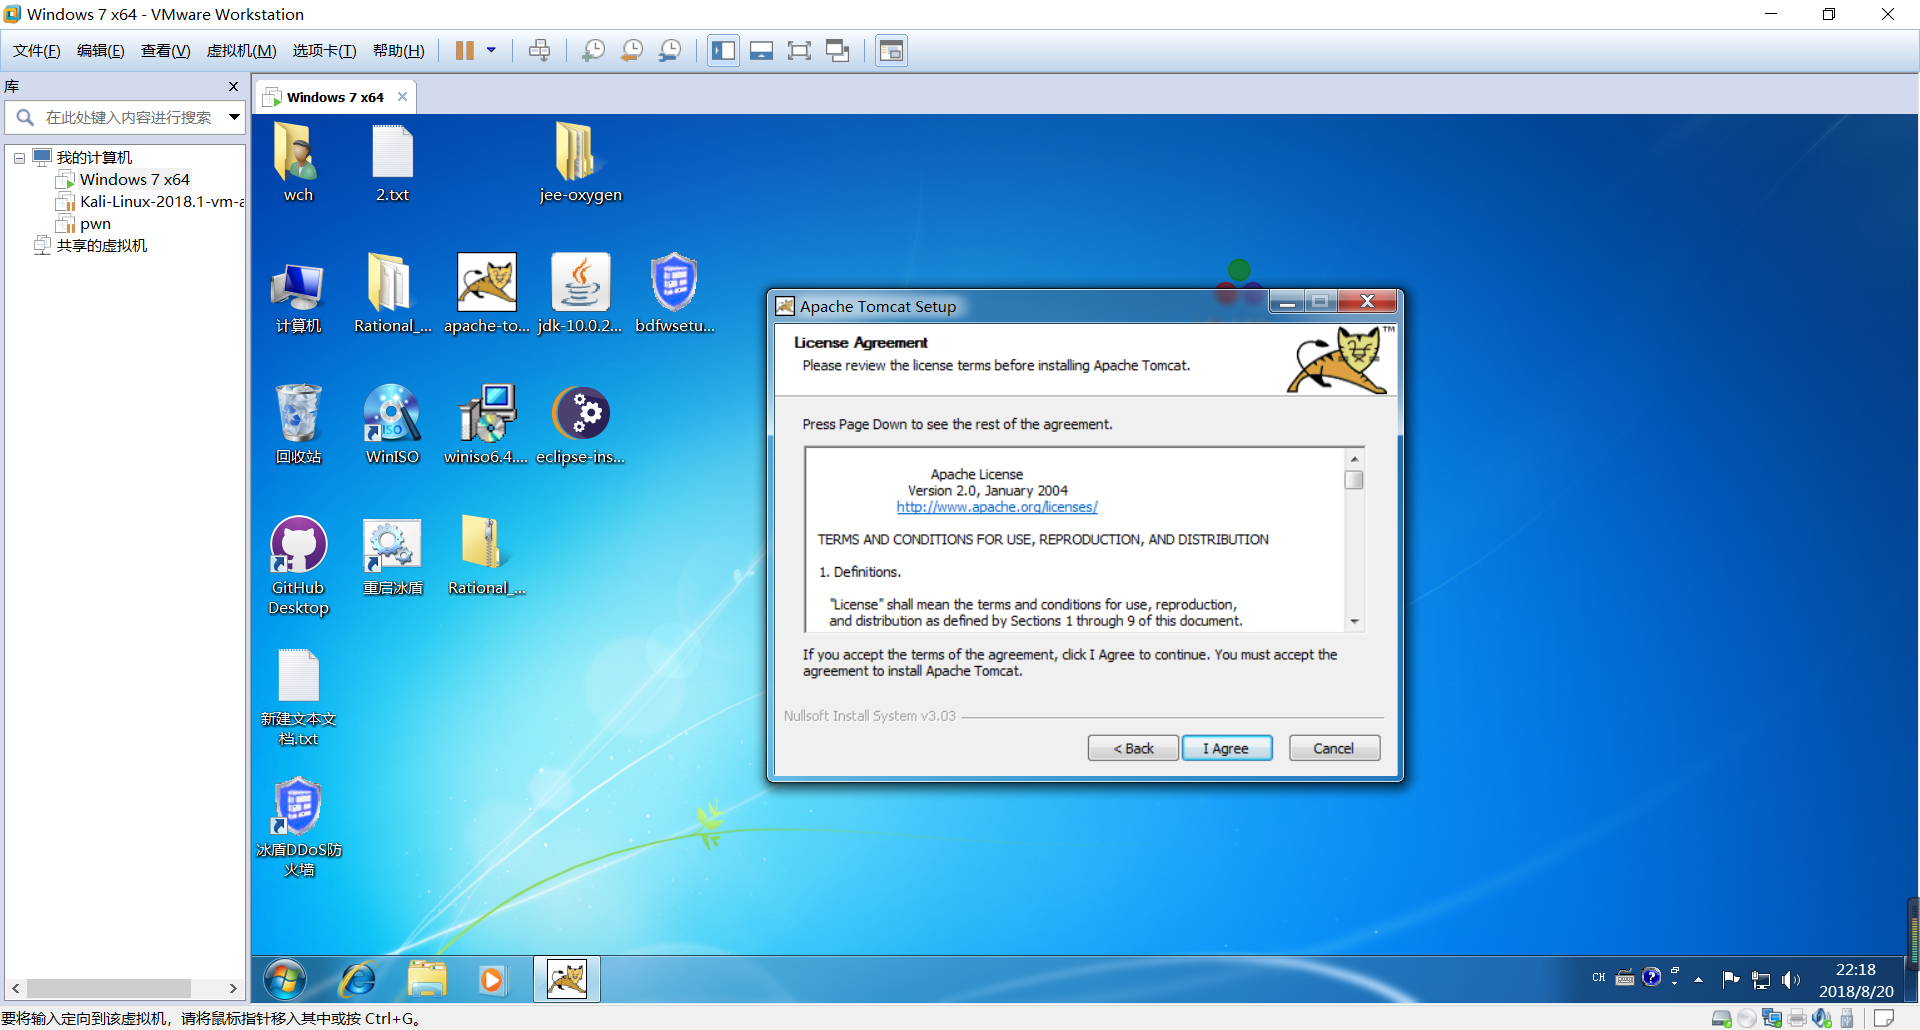
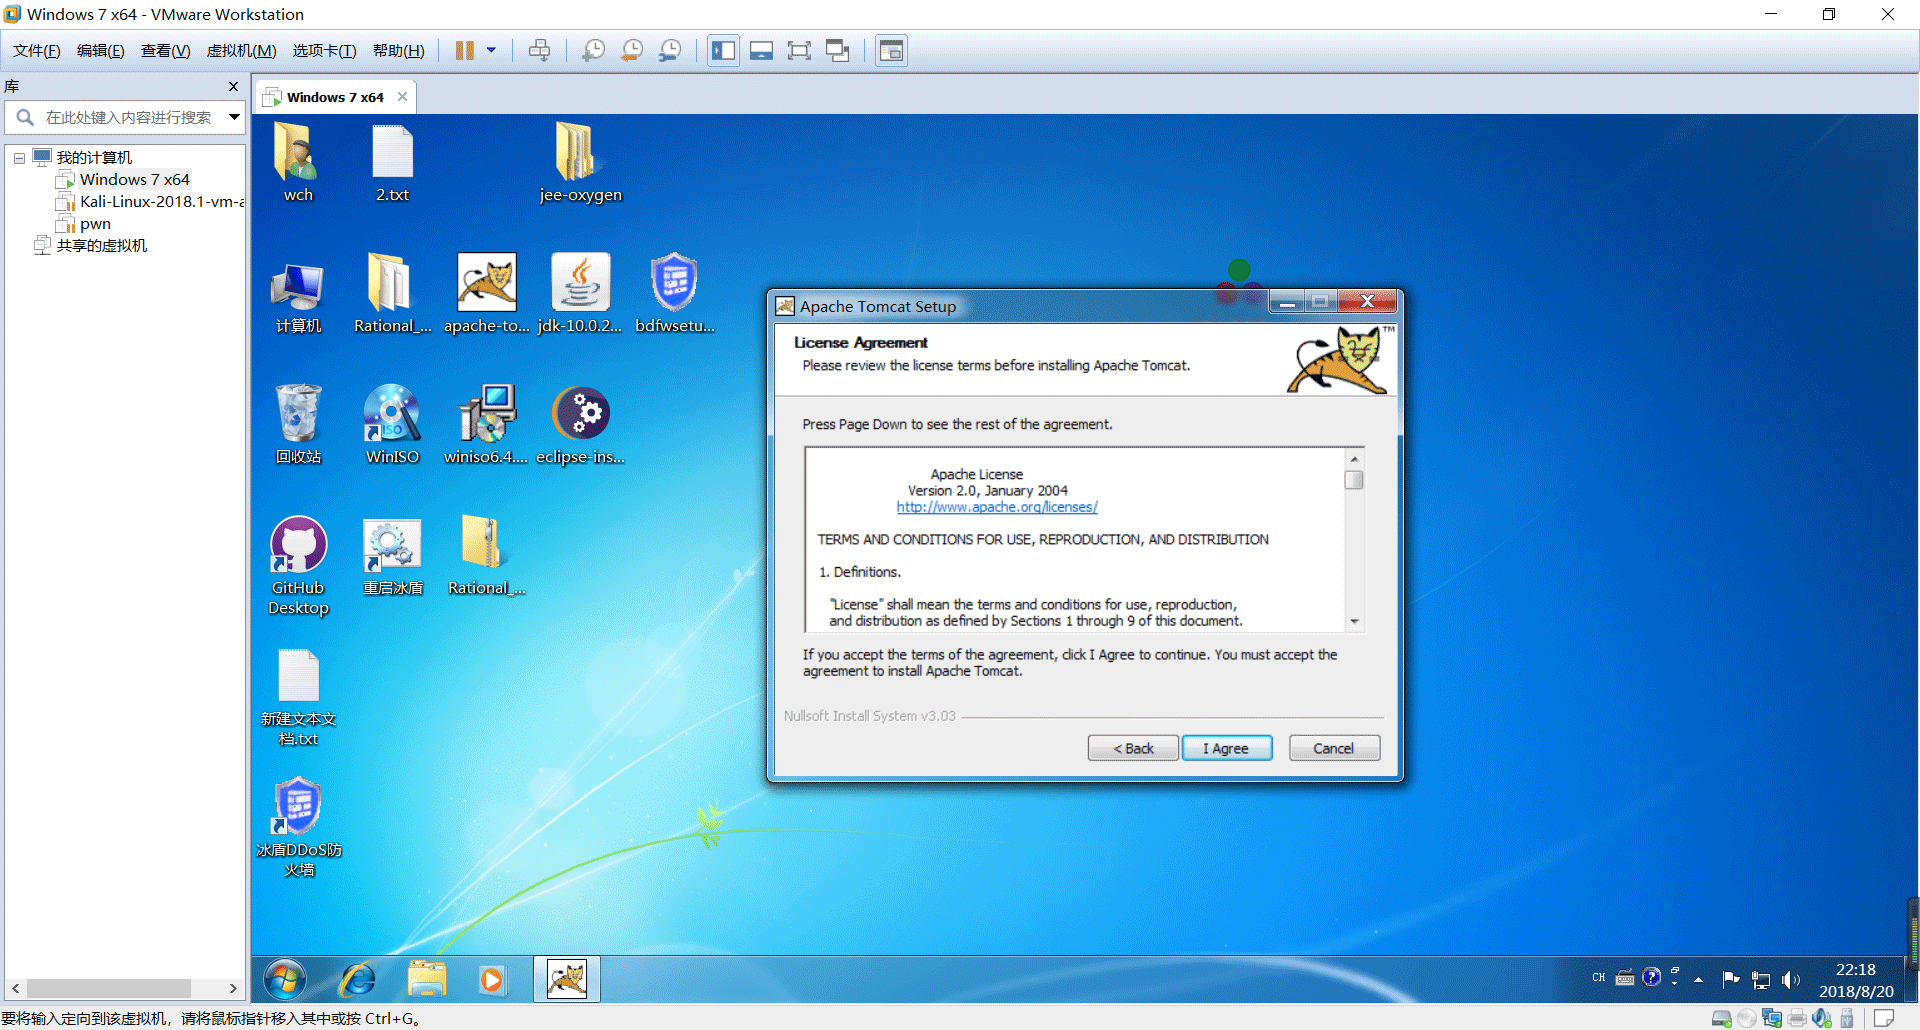
图片压缩
进行了图片压缩操作

diff --git a/source/_posts/How-to-configure-Tomcat-in-eclipse-environment.md b/source/_posts/How-to-configure-Tomcat-in-eclipse-environment.md
@@ -30,17 +30,17 @@ Tomcat 无太大操作空间 可以直接一路默认
 真的默认 无
 
 #### Eclipse安装图解
-![0.8.png](https://i.loli.net/2018/11/27/5bfd5a1fcadf0.png)
-![0.9.png](https://i.loli.net/2018/11/27/5bfd5a1a6bf72.png)
+![0.8.png](https://i.loli.net/2018/12/03/5c04c7db7a7f2.png)
+![0.9.png](https://i.loli.net/2018/12/03/5c04c7db7a799.png)
 
 #### Tomcat安装图解
-![0.1.png](https://i.loli.net/2018/11/27/5bfd5a2cc2637.png)
-![0.2.png](https://i.loli.net/2018/11/27/5bfd5b6e534c0.png)
-![0.3.png](https://i.loli.net/2018/11/27/5bfd5a6836384.png)
-![0.4.png](https://i.loli.net/2018/11/27/5bfd5a2d4c0de.png)
-![0.5.png](https://i.loli.net/2018/11/27/5bfd5a2d4d531.png)
-![0.6.png](https://i.loli.net/2018/11/27/5bfd5a2d4eaee.png)
-![0.7.png](https://i.loli.net/2018/11/27/5bfd5a68d200f.png)
+![0.1.png](https://i.loli.net/2018/12/03/5c04c8f23038d.png)
+![0.2.png](https://i.loli.net/2018/12/03/5c04c8f22d189.png)
+![0.3.png](https://i.loli.net/2018/12/03/5c04c8f1b5829.png)
+![0.4.png](https://i.loli.net/2018/12/03/5c04c8f2275ef.png)
+![0.5.png](https://i.loli.net/2018/12/03/5c04c8f22a353.png)
+![0.6.png](https://i.loli.net/2018/12/03/5c04c8f2241a2.png)
+![0.7.png](https://i.loli.net/2018/12/03/5c04c8f233523.png)
 
 
 
@@ -55,19 +55,19 @@ Add你的Tomcat
 选择你的版本
 >我的版本是v9.0
 
-![1.png](https://i.loli.net/2018/11/27/5bfd59abd8af7.png)
-![2.png](https://i.loli.net/2018/11/27/5bfd59a13da69.png)
+![1.png](https://i.loli.net/2018/12/03/5c04c7cf05a65.png)
+![2.png](https://i.loli.net/2018/12/03/5c04c7d9b90ab.png)
 
 Next
 
 选择你的安装路径
 
-![3.png](https://i.loli.net/2018/11/27/5bfd59b0b37e1.png)
+![3.png](https://i.loli.net/2018/12/03/5c04c7d5d039b.png)
 
 #### 选择jdk版本
 
 
-![4.png](https://i.loli.net/2018/11/27/5bfd59b0aef41.png)
+![4.png](https://i.loli.net/2018/12/03/5c04c7d5ce8c8.png)
 
 一般情况下 这个是系统默认的 这里为了一些后续方便
 >Workbench default JRE
@@ -77,7 +77,7 @@ Add你的jdk
 
 选择你的安装路径
 
-![5.png](https://i.loli.net/2018/11/27/5bfd59b0b0d8c.png)
+![5.png](https://i.loli.net/2018/12/03/5c04c7d9b7253.png)
 
 ok 搞定
 
@@ -85,37 +85,37 @@ ok 搞定
 新建项目
 **File** --> **New** --> **Other** --> **web** -->**Dynamic Web Project**
 
-![6.png](https://i.loli.net/2018/11/27/5bfd5a28cf817.png))
+![6.png](https://i.loli.net/2018/12/03/5c04c7e33ddef.png)
 
 设置项目名
 
-![7.png](https://i.loli.net/2018/11/27/5bfd5a26914aa.png)
+![7.png](https://i.loli.net/2018/12/03/5c04c7e33d4af.png)
 
 这里可以不用管
-![8.png](https://i.loli.net/2018/11/27/5bfd5a2743a62.png)
+![8.png](https://i.loli.net/2018/12/03/5c04c7e27a3d3.png)
 
 这个时候我们需要看到我们的server
-![9.png](https://i.loli.net/2018/11/27/5bfd5a28d927b.png)
-![10.png](https://i.loli.net/2018/11/27/5bfd5a28da20a.png)
+![9.png](https://i.loli.net/2018/12/03/5c04c7e33c987.png)
+![10.png](https://i.loli.net/2018/12/03/5c04c7e33b4c6.png)
 
 
 #### 部署server
 
-![11.png](https://i.loli.net/2018/11/27/5bfd5a28d3dde.png)
+![11.png](https://i.loli.net/2018/12/03/5c04c7e33beae.png)
 
 将之前创建的Test项目add到 server
-![12.png](https://i.loli.net/2018/11/27/5bfd59cbd3737.png)
-![13.png](https://i.loli.net/2018/11/27/5bfd59cc58619.png)
+![12.png](https://i.loli.net/2018/12/03/5c04c7fc85508.png)
+![13.png](https://i.loli.net/2018/12/03/5c04c7fb8d1e7.png)
 
 启动 server
 可以右键 也可以直接点击这个绿色启动键
-![14.png](https://i.loli.net/2018/11/27/5bfd59cc64102.png)
+![14.png](https://i.loli.net/2018/12/03/5c04c7fb8a9f1.png)
 
 
 #### 设置主界面index
 **Test** --> **Webcontent (之前自己设置的，这是默认的)** --> `index.jsp`
 
-![15.png](https://i.loli.net/2018/11/27/5bfd59c0032be.png)
+![15.png](https://i.loli.net/2018/12/03/5c04c7ecb4f2a.png)
 
 ```jsp
 <!DOCTYPE HTML PUBLIC "-//W3C//DTD HTML 4.01 Transitional//EN">
@@ -135,16 +135,16 @@ Ctrl+F11 ok 打开了内置的浏览器 运行成功
 或者手动打开浏览器
 `http://localhost:8080/Test/`
 
-![16.png](https://i.loli.net/2018/11/27/5bfd59b523b88.png)
+![16.png](https://i.loli.net/2018/12/03/5c04c7e64a3cd.png)
 
 #### Others
 这里也可以修改path设置成Tomcat的目录 (了解一下)
 
 原
-![17.png](https://i.loli.net/2018/11/27/5bfd59c000be5.png)
+![17.png](https://i.loli.net/2018/12/03/5c04c7ecb7261.png)
 
 改
-![18.png](https://i.loli.net/2018/11/27/5bfd59bc022b7.png)
+![18.png](https://i.loli.net/2018/12/03/5c04c7e8952bd.png)
 
 ### 附件
 

diff --git a/source/php/index.md b/source/php/index.md
@@ -1,0 +1,5 @@
+---
+title: php
+date: 2018-11-30 10:52:19
+type: "PHP学习"
+---
